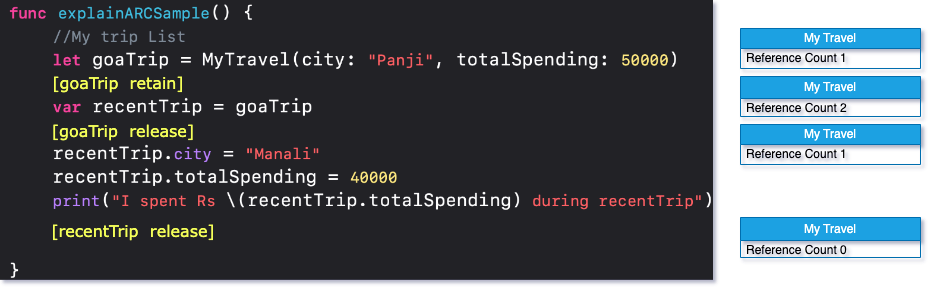
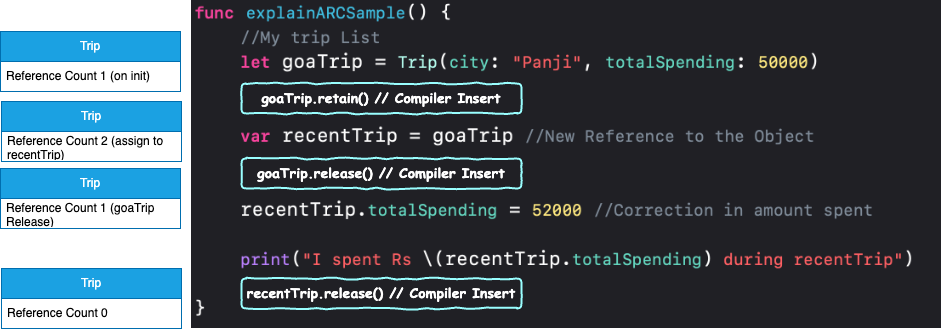
Fix the issue.

diff --git a/posts/arc-in-swift/index.html b/posts/arc-in-swift/index.html
@@ -723,7 +723,7 @@
   class="readtime"
   data-bs-toggle="tooltip"
   data-bs-placement="bottom"
-  title="1036 words"
+  title="1034 words"
 >
   <em>5 min</em> read</span>
 
@@ -744,22 +744,21 @@
 
 <figure class="highlight"><pre><code class="language-swift" data-lang="swift">  <span class="kd">public</span> <span class="kd">typealias</span> <span class="kt">Amount</span> <span class="o">=</span> <span class="kt">Int</span>
 
-  <span class="kd">public</span> <span class="kd">class</span> <span class="kt">MyTravel</span> <span class="p">{</span>
-      <span class="kd">public</span> <span class="k">var</span> <span class="nv">city</span><span class="p">:</span> <span class="kt">String</span>
-      <span class="kd">public</span> <span class="k">var</span> <span class="nv">totalSpending</span><span class="p">:</span> <span class="kt">Amount</span>
-
-      <span class="kd">public</span> <span class="nf">init</span><span class="p">(</span><span class="nv">city</span><span class="p">:</span> <span class="kt">String</span><span class="p">,</span> <span class="nv">totalSpending</span><span class="p">:</span> <span class="kt">Int</span><span class="p">)</span> <span class="p">{</span>
-          <span class="k">self</span><span class="o">.</span><span class="n">city</span> <span class="o">=</span> <span class="n">city</span>
-          <span class="k">self</span><span class="o">.</span><span class="n">totalSpending</span> <span class="o">=</span> <span class="n">totalSpending</span>
-      <span class="p">}</span>
+  <span class="kd">public</span> <span class="kd">class</span> <span class="kt">Trip</span> <span class="p">{</span>
+    <span class="kd">public</span> <span class="k">var</span> <span class="nv">city</span><span class="p">:</span> <span class="kt">String</span>
+    <span class="kd">public</span> <span class="k">var</span> <span class="nv">totalSpending</span><span class="p">:</span> <span class="kt">Amount</span>
+    
+    <span class="kd">public</span> <span class="nf">init</span><span class="p">(</span><span class="nv">city</span><span class="p">:</span> <span class="kt">String</span><span class="p">,</span> <span class="nv">totalSpending</span><span class="p">:</span> <span class="kt">Int</span><span class="p">)</span> <span class="p">{</span>
+        <span class="k">self</span><span class="o">.</span><span class="n">city</span> <span class="o">=</span> <span class="n">city</span>
+        <span class="k">self</span><span class="o">.</span><span class="n">totalSpending</span> <span class="o">=</span> <span class="n">totalSpending</span>
+    <span class="p">}</span>
   <span class="p">}</span></code></pre></figure>
 
-<figure class="highlight"><pre><code class="language-swift" data-lang="swift">  <span class="c1">//Uses of My Travel Class</span>
-  <span class="c1">//My trip List</span>
-  <span class="k">let</span> <span class="nv">goaTrip</span> <span class="o">=</span> <span class="kt">MyTravel</span><span class="p">(</span><span class="nv">city</span><span class="p">:</span> <span class="s">"Panji"</span><span class="p">,</span> <span class="nv">totalSpending</span><span class="p">:</span> <span class="mi">50000</span><span class="p">)</span> <span class="c1">//init is one pointer to Object of</span>
+<figure class="highlight"><pre><code class="language-swift" data-lang="swift">  <span class="c1">//Uses of Trip Class</span>
+  <span class="k">let</span> <span class="nv">goaTrip</span> <span class="o">=</span> <span class="kt">Trip</span><span class="p">(</span><span class="nv">city</span><span class="p">:</span> <span class="s">"Panji"</span><span class="p">,</span> <span class="nv">totalSpending</span><span class="p">:</span> <span class="mi">50000</span><span class="p">)</span> <span class="c1">//init is one pointer to Object of</span>
   <span class="nf">print</span><span class="p">(</span><span class="s">"I spent Rs </span><span class="se">\(</span><span class="n">goaTrip</span><span class="o">.</span><span class="n">totalSpending</span><span class="se">)</span><span class="s"> in goa trip"</span><span class="p">)</span>
   
-  <span class="k">var</span> <span class="nv">tripWithHigherSpending</span> <span class="o">=</span> <span class="p">[</span><span class="n">goaTrip</span><span class="p">]</span> <span class="c1">// One more pointer to goaTrip</span>
+  <span class="k">var</span> <span class="nv">tripToBeach</span> <span class="o">=</span> <span class="p">[</span><span class="n">goaTrip</span><span class="p">]</span> <span class="c1">// One more pointer to goaTrip</span>
   <span class="k">var</span> <span class="nv">recentTrip</span> <span class="o">=</span> <span class="n">goaTrip</span>              <span class="c1">// One more pointer to goaTrip</span>
   <span class="nf">print</span><span class="p">(</span><span class="s">"I spent Rs </span><span class="se">\(</span><span class="n">recentTrip</span><span class="o">.</span><span class="n">totalSpending</span><span class="se">)</span><span class="s"> during recentTrip"</span><span class="p">)</span></code></pre></figure>
 
@@ -770,8 +769,8 @@
 <p>As mentioned, ARC is a compiler-driven feature. It inserts retain and release statements during compilation.</p>
 
 <ul>
-  <li>Retain increase the reference count.</li>
-  <li>Release decrease the reference count.</li>
+  <li>Retain - increase the reference count.</li>
+  <li>Release - decrease the reference count.</li>
 </ul>
 
 <div id="divActivites" name="divActivites" style="padding-left:10px; padding-right:10px; background-color: #FFFFE0; border:1px solid black;">
@@ -793,14 +792,14 @@ ARC is the compiler-driven feature and it injects retain/release statements in a
 
 <figure class="highlight"><pre><code class="language-swift" data-lang="swift">  <span class="kd">public</span> <span class="kd">typealias</span> <span class="kt">Amount</span> <span class="o">=</span> <span class="kt">Int</span>
 
-  <span class="kd">public</span> <span class="kd">class</span> <span class="kt">MyTravel</span> <span class="p">{</span>
-      <span class="kd">public</span> <span class="k">var</span> <span class="nv">city</span><span class="p">:</span> <span class="kt">String</span>
-      <span class="kd">public</span> <span class="k">var</span> <span class="nv">totalSpending</span><span class="p">:</span> <span class="kt">Amount</span>
+  <span class="kd">public</span> <span class="kd">class</span> <span class="kt">Trip</span> <span class="p">{</span>
+    <span class="kd">public</span> <span class="k">var</span> <span class="nv">city</span><span class="p">:</span> <span class="kt">String</span>
+    <span class="kd">public</span> <span class="k">var</span> <span class="nv">totalSpending</span><span class="p">:</span> <span class="kt">Amount</span>
     
-      <span class="kd">public</span> <span class="nf">init</span><span class="p">(</span><span class="nv">city</span><span class="p">:</span> <span class="kt">String</span><span class="p">,</span> <span class="nv">totalSpending</span><span class="p">:</span> <span class="kt">Int</span><span class="p">)</span> <span class="p">{</span>
-          <span class="k">self</span><span class="o">.</span><span class="n">city</span> <span class="o">=</span> <span class="n">city</span>
-          <span class="k">self</span><span class="o">.</span><span class="n">totalSpending</span> <span class="o">=</span> <span class="n">totalSpending</span>
-      <span class="p">}</span>
+    <span class="kd">public</span> <span class="nf">init</span><span class="p">(</span><span class="nv">city</span><span class="p">:</span> <span class="kt">String</span><span class="p">,</span> <span class="nv">totalSpending</span><span class="p">:</span> <span class="kt">Int</span><span class="p">)</span> <span class="p">{</span>
+        <span class="k">self</span><span class="o">.</span><span class="n">city</span> <span class="o">=</span> <span class="n">city</span>
+        <span class="k">self</span><span class="o">.</span><span class="n">totalSpending</span> <span class="o">=</span> <span class="n">totalSpending</span>
+    <span class="p">}</span>
   <span class="p">}</span></code></pre></figure>
 
 <p><a href="/Assest/iOS/arc/arcCompile.png" class="popup img-link "><img data-src="/Assest/iOS/arc/arcCompile.png" class="lazyload" data-proofer-ignore></a></p>

diff --git a/index.html b/index.html
@@ -884,6 +884,139 @@ Optional is one of the fundamental safety features provided in Swift. It is a co
       </div>
     </a>
   
+    <a href="/posts/enum/" class="card-wrapper">
+      <div class="card post-preview flex-md-row-reverse">
+        
+
+        <div class="card-body d-flex flex-column">
+          <h1 class="card-title my-2 mt-md-0">
+            ARC in Swift
+          </h1>
+
+          <div class="card-text post-content mt-0 mb-2">
+            <p>
+              
+
+
+
+
+
+                  guard let category = attributes.filter({
+        if case .category(_) = $0 {
+            return true
+        }
+        return false
+    }).first, case .category(let categoryMask) = category  el...
+            </p>
+          </div>
+
+          <div class="post-meta flex-grow-1 d-flex align-items-end">
+            <div class="me-auto">
+              <!-- posted date -->
+              <i class="far fa-calendar fa-fw me-1"></i>
+              <!--
+  Date format snippet
+  See: ${JS_ROOT}/utils/locale-dateime.js
+-->
+
+
+
+
+
+<em
+  class=""
+  data-ts="1689411120"
+  data-df="ll"
+  
+>
+  Jul 15, 2023
+</em>
+
+
+              <!-- categories -->
+              
+                <i class="far fa-folder-open fa-fw me-1"></i>
+                <span class="categories">
+                  
+                    iOS,
+                    ARC,
+                    iOS Memory Management
+                </span>
+              
+            </div>
+
+            
+          </div>
+          <!-- .post-meta -->
+        </div>
+        <!-- .card-body -->
+      </div>
+    </a>
+  
+    <a href="/posts/arc-in-swift/" class="card-wrapper">
+      <div class="card post-preview flex-md-row-reverse">
+        
+
+        <div class="card-body d-flex flex-column">
+          <h1 class="card-title my-2 mt-md-0">
+            ARC in Swift
+          </h1>
+
+          <div class="card-text post-content mt-0 mb-2">
+            <p>
+              
+
+
+
+
+
+              One of the key factors for the success of any application is its performance. Effective Memory Management in an application is crucial for better performance of the application. iOS applications de...
+            </p>
+          </div>
+
+          <div class="post-meta flex-grow-1 d-flex align-items-end">
+            <div class="me-auto">
+              <!-- posted date -->
+              <i class="far fa-calendar fa-fw me-1"></i>
+              <!--
+  Date format snippet
+  See: ${JS_ROOT}/utils/locale-dateime.js
+-->
+
+
+
+
+
+<em
+  class=""
+  data-ts="1689411120"
+  data-df="ll"
+  
+>
+  Jul 15, 2023
+</em>
+
+
+              <!-- categories -->
+              
+                <i class="far fa-folder-open fa-fw me-1"></i>
+                <span class="categories">
+                  
+                    iOS,
+                    ARC,
+                    iOS Memory Management
+                </span>
+              
+            </div>
+
+            
+          </div>
+          <!-- .post-meta -->
+        </div>
+        <!-- .card-body -->
+      </div>
+    </a>
+  
 </div>
 <!-- #post-list -->
 

diff --git a/about/index.html b/about/index.html
@@ -47,13 +47,13 @@
 <meta property="og:url" content="http://localhost:4000/about/" />
 <meta property="og:site_name" content="Saurav Nagpal Writings" />
 <meta property="og:type" content="article" />
-<meta property="article:published_time" content="2023-08-21T22:02:23+05:30" />
+<meta property="article:published_time" content="2023-08-22T11:12:46+05:30" />
 <meta name="twitter:card" content="summary" />
 <meta property="twitter:title" content="About" />
 <meta name="twitter:site" content="@nagpalsaurav" />
 <meta name="google-site-verification" content="_7CbT2oLxEbzhBcpoyPoHWtOLgC2fJY_oGmcFFv48bM" />
 <script type="application/ld+json">
-{"@context":"https://schema.org","@type":"WebSite","dateModified":"2023-08-21T22:02:23+05:30","datePublished":"2023-08-21T22:02:23+05:30","description":"Add Markdown syntax content to file 1 _tabs/about.md and it will show up on this page.","headline":"About","name":"Saurav Nagpal","sameAs":["https://twitter.com/nagpalsaurav","https://github.com/nagpal-saurav"],"url":"http://localhost:4000/about/"}</script>
+{"@context":"https://schema.org","@type":"WebSite","dateModified":"2023-08-22T11:12:46+05:30","datePublished":"2023-08-22T11:12:46+05:30","description":"Add Markdown syntax content to file 1 _tabs/about.md and it will show up on this page.","headline":"About","name":"Saurav Nagpal","sameAs":["https://twitter.com/nagpalsaurav","https://github.com/nagpal-saurav"],"url":"http://localhost:4000/about/"}</script>
 <!-- End Jekyll SEO tag -->
 
   

diff --git a/categories/index.html b/categories/index.html
@@ -47,13 +47,13 @@
 <meta property="og:url" content="http://localhost:4000/categories/" />
 <meta property="og:site_name" content="Saurav Nagpal Writings" />
 <meta property="og:type" content="article" />
-<meta property="article:published_time" content="2023-08-21T22:02:23+05:30" />
+<meta property="article:published_time" content="2023-08-22T11:12:46+05:30" />
 <meta name="twitter:card" content="summary" />
 <meta property="twitter:title" content="Categories" />
 <meta name="twitter:site" content="@nagpalsaurav" />
 <meta name="google-site-verification" content="_7CbT2oLxEbzhBcpoyPoHWtOLgC2fJY_oGmcFFv48bM" />
 <script type="application/ld+json">
-{"@context":"https://schema.org","@type":"BlogPosting","dateModified":"2023-08-21T22:02:23+05:30","datePublished":"2023-08-21T22:02:23+05:30","description":"Blog about iOS, Swift, Mobile Development and Design Pattern.","headline":"Categories","mainEntityOfPage":{"@type":"WebPage","@id":"http://localhost:4000/categories/"},"url":"http://localhost:4000/categories/"}</script>
+{"@context":"https://schema.org","@type":"BlogPosting","dateModified":"2023-08-22T11:12:46+05:30","datePublished":"2023-08-22T11:12:46+05:30","description":"Blog about iOS, Swift, Mobile Development and Design Pattern.","headline":"Categories","mainEntityOfPage":{"@type":"WebPage","@id":"http://localhost:4000/categories/"},"url":"http://localhost:4000/categories/"}</script>
 <!-- End Jekyll SEO tag -->
 
   

diff --git a/archives/index.html b/archives/index.html
@@ -47,13 +47,13 @@
 <meta property="og:url" content="http://localhost:4000/archives/" />
 <meta property="og:site_name" content="Saurav Nagpal Writings" />
 <meta property="og:type" content="article" />
-<meta property="article:published_time" content="2023-08-21T22:02:23+05:30" />
+<meta property="article:published_time" content="2023-08-22T11:12:46+05:30" />
 <meta name="twitter:card" content="summary" />
 <meta property="twitter:title" content="Archives" />
 <meta name="twitter:site" content="@nagpalsaurav" />
 <meta name="google-site-verification" content="_7CbT2oLxEbzhBcpoyPoHWtOLgC2fJY_oGmcFFv48bM" />
 <script type="application/ld+json">
-{"@context":"https://schema.org","@type":"BlogPosting","dateModified":"2023-08-21T22:02:23+05:30","datePublished":"2023-08-21T22:02:23+05:30","description":"Blog about iOS, Swift, Mobile Development and Design Pattern.","headline":"Archives","mainEntityOfPage":{"@type":"WebPage","@id":"http://localhost:4000/archives/"},"url":"http://localhost:4000/archives/"}</script>
+{"@context":"https://schema.org","@type":"BlogPosting","dateModified":"2023-08-22T11:12:46+05:30","datePublished":"2023-08-22T11:12:46+05:30","description":"Blog about iOS, Swift, Mobile Development and Design Pattern.","headline":"Archives","mainEntityOfPage":{"@type":"WebPage","@id":"http://localhost:4000/archives/"},"url":"http://localhost:4000/archives/"}</script>
 <!-- End Jekyll SEO tag -->
 
   

diff --git a/tags/index.html b/tags/index.html
@@ -47,13 +47,13 @@
 <meta property="og:url" content="http://localhost:4000/tags/" />
 <meta property="og:site_name" content="Saurav Nagpal Writings" />
 <meta property="og:type" content="article" />
-<meta property="article:published_time" content="2023-08-21T22:02:23+05:30" />
+<meta property="article:published_time" content="2023-08-22T11:12:46+05:30" />
 <meta name="twitter:card" content="summary" />
 <meta property="twitter:title" content="Tags" />
 <meta name="twitter:site" content="@nagpalsaurav" />
 <meta name="google-site-verification" content="_7CbT2oLxEbzhBcpoyPoHWtOLgC2fJY_oGmcFFv48bM" />
 <script type="application/ld+json">
-{"@context":"https://schema.org","@type":"BlogPosting","dateModified":"2023-08-21T22:02:23+05:30","datePublished":"2023-08-21T22:02:23+05:30","description":"Blog about iOS, Swift, Mobile Development and Design Pattern.","headline":"Tags","mainEntityOfPage":{"@type":"WebPage","@id":"http://localhost:4000/tags/"},"url":"http://localhost:4000/tags/"}</script>
+{"@context":"https://schema.org","@type":"BlogPosting","dateModified":"2023-08-22T11:12:46+05:30","datePublished":"2023-08-22T11:12:46+05:30","description":"Blog about iOS, Swift, Mobile Development and Design Pattern.","headline":"Tags","mainEntityOfPage":{"@type":"WebPage","@id":"http://localhost:4000/tags/"},"url":"http://localhost:4000/tags/"}</script>
 <!-- End Jekyll SEO tag -->
 
   

diff --git a/sw.js b/sw.js
@@ -1,6 +1,6 @@
 self.importScripts('/assets/js/data/swcache.js');
 
-const cacheName = 'chirpy-20230821.220227';
+const cacheName = 'chirpy-20230822.111247';
 
 function verifyDomain(url) {
     for (const domain of allowedDomains) {
